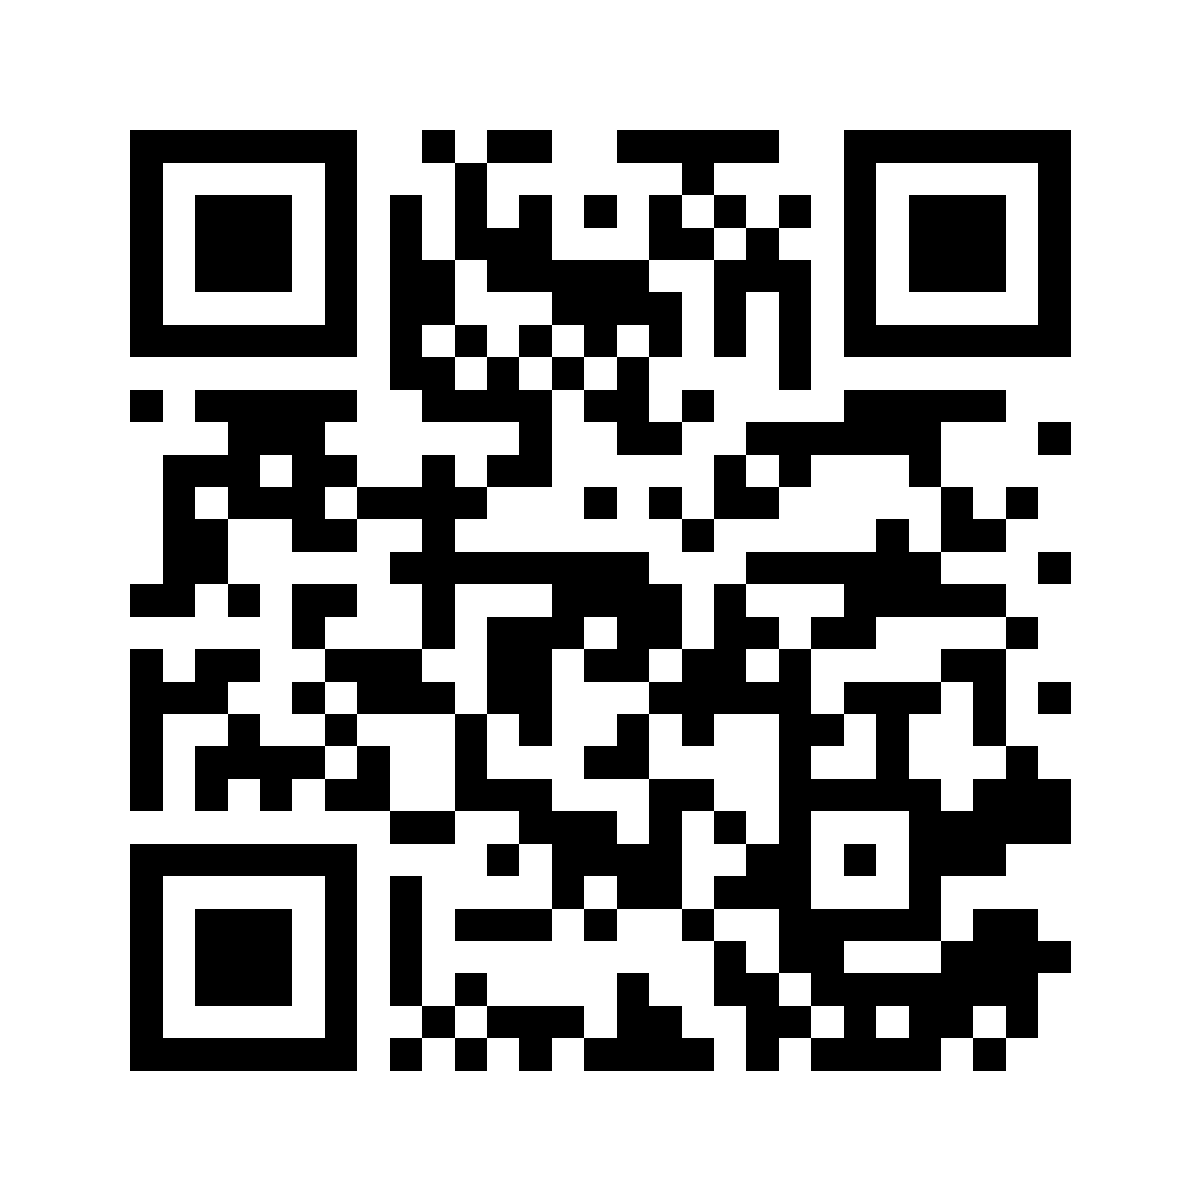
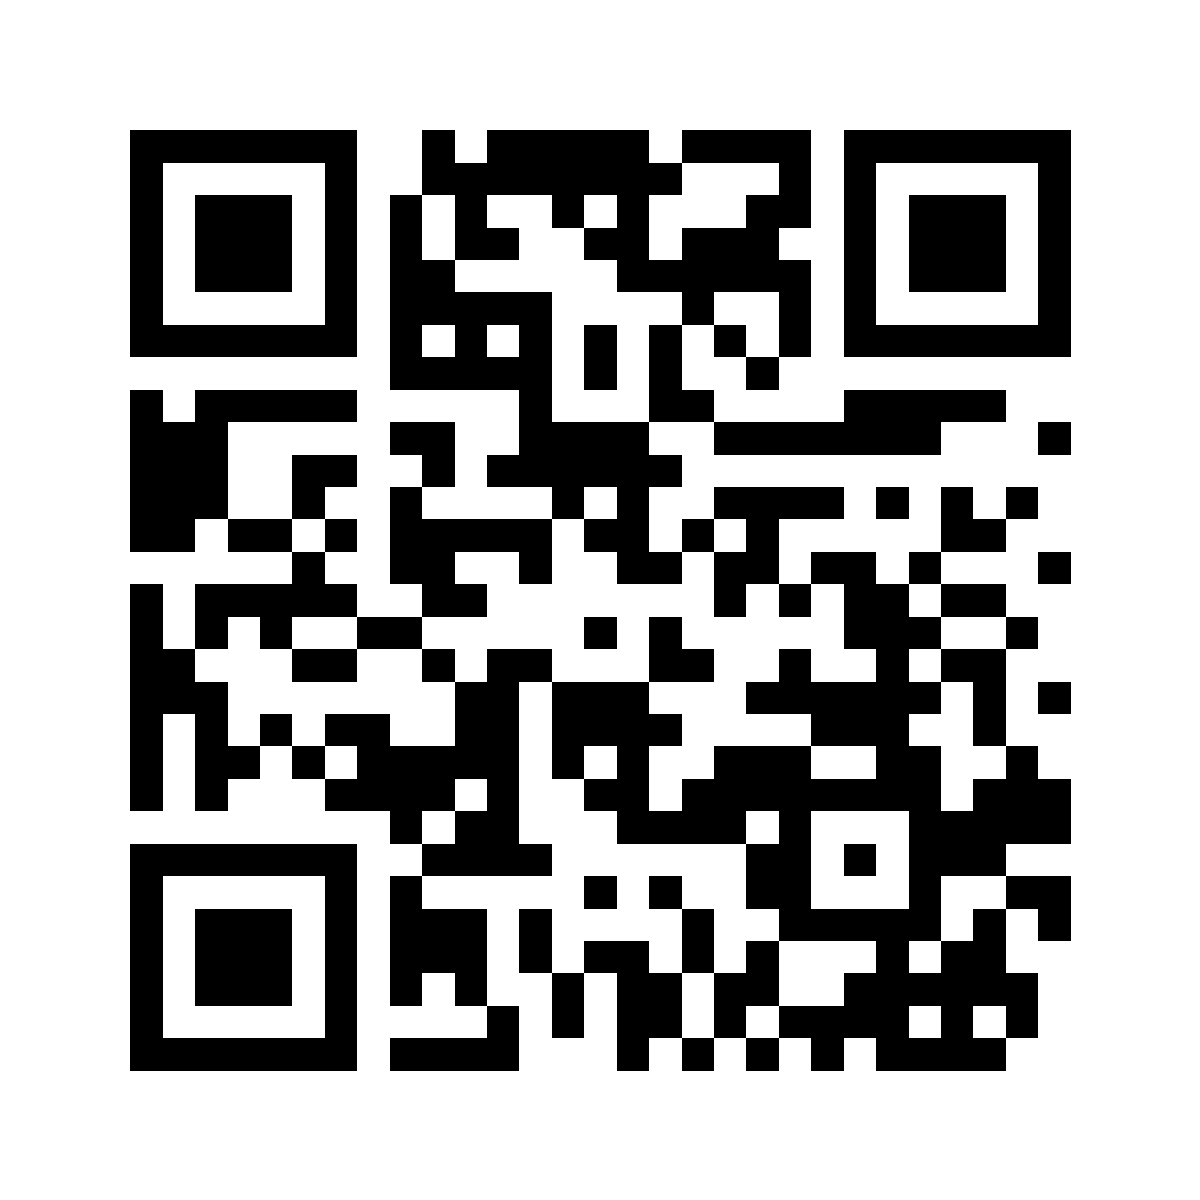
Point booking and trip lookup QR codes to www.doixenq.com

Changed region(s): [[0.0925, 0.0925, 0.8325, 0.8942], [0.8325, 0.7092, 0.8942, 0.8325]]

diff --git a/tests/e2e/customer.spec.ts b/tests/e2e/customer.spec.ts
@@ -57,7 +57,7 @@ test("khách lọc xe, đặt và tra cứu; không còn phần 3D", async ({
   await expect(page.getByRole("link", { name: "Tải QR về máy" })).toHaveAttribute("download", `tra-cuu-${code}.png`);
   const followHref = await page.getByRole("link", { name: "Theo dõi chuyến xe", exact: true }).getAttribute("href");
   const QRCode = await import("qrcode");
-  const matrix = QRCode.create(new URL(followHref!, page.url()).href, { errorCorrectionLevel: "M" }).modules;
+  const matrix = QRCode.create(new URL(followHref!, "https://www.doixenq.com").href, { errorCorrectionLevel: "M" }).modules;
   const matches = await qr.evaluate(async (element, expected) => {
     const image = element as HTMLImageElement;
     await image.decode();

diff --git a/components/admin/BookingQR.tsx b/components/admin/BookingQR.tsx
@@ -8,7 +8,7 @@ export default function BookingQR() {
         <a className="admin-btn primary" href="/api/booking-qr?download=1" download="qr-dat-xe.svg">Tải mã QR để in</a>
         <a className="admin-btn" href="/dat-xe" target="_blank" rel="noreferrer">Mở trang đặt xe</a>
       </div>
-      <p className="admin-footnote">QR dùng địa chỉ website trong APP_URL. Hãy quét thử trên điện thoại trước khi in.</p>
+      <p className="admin-footnote">QR mở https://www.doixenq.com/dat-xe. Hãy tải mã mới và quét thử trên điện thoại trước khi in.</p>
     </section>
   );
 }

diff --git a/components/TripLookupQR.tsx b/components/TripLookupQR.tsx
@@ -1,6 +1,7 @@
 "use client";
 
 import { useEffect, useState } from "react";
+import { siteUrl } from "@/lib/site";
 
 export default function TripLookupQR({
   id,
@@ -16,7 +17,7 @@ export default function TripLookupQR({
     let active = true;
     setImage("");
     setError(false);
-    const url = new URL("/tra-cuu", window.location.origin);
+    const url = new URL("/tra-cuu", siteUrl);
     url.searchParams.set("ma", id);
     url.searchParams.set("token", token);
     import("qrcode")

diff --git a/app/api/booking-qr/route.ts b/app/api/booking-qr/route.ts
@@ -1,7 +1,8 @@
 import QRCode from "qrcode";
+import { siteUrl } from "@/lib/site";
 export const runtime = "nodejs";
 export async function GET(request: Request) {
-  const url = new URL("/dat-xe", process.env.APP_URL || new URL(request.url).origin);
+  const url = new URL("/dat-xe", siteUrl);
   const svg = await QRCode.toString(url.href, {
     type: "svg", errorCorrectionLevel: "M", margin: 4, width: 800,
   });

diff --git a/lib/site.ts b/lib/site.ts
@@ -1,1 +1,2 @@
-export const siteUrl = new URL(process.env.APP_URL || "http://localhost:3000");
+// Keep the public identity stable even if a deployment still has the old URL.
+export const siteUrl = new URL("https://www.doixenq.com");
